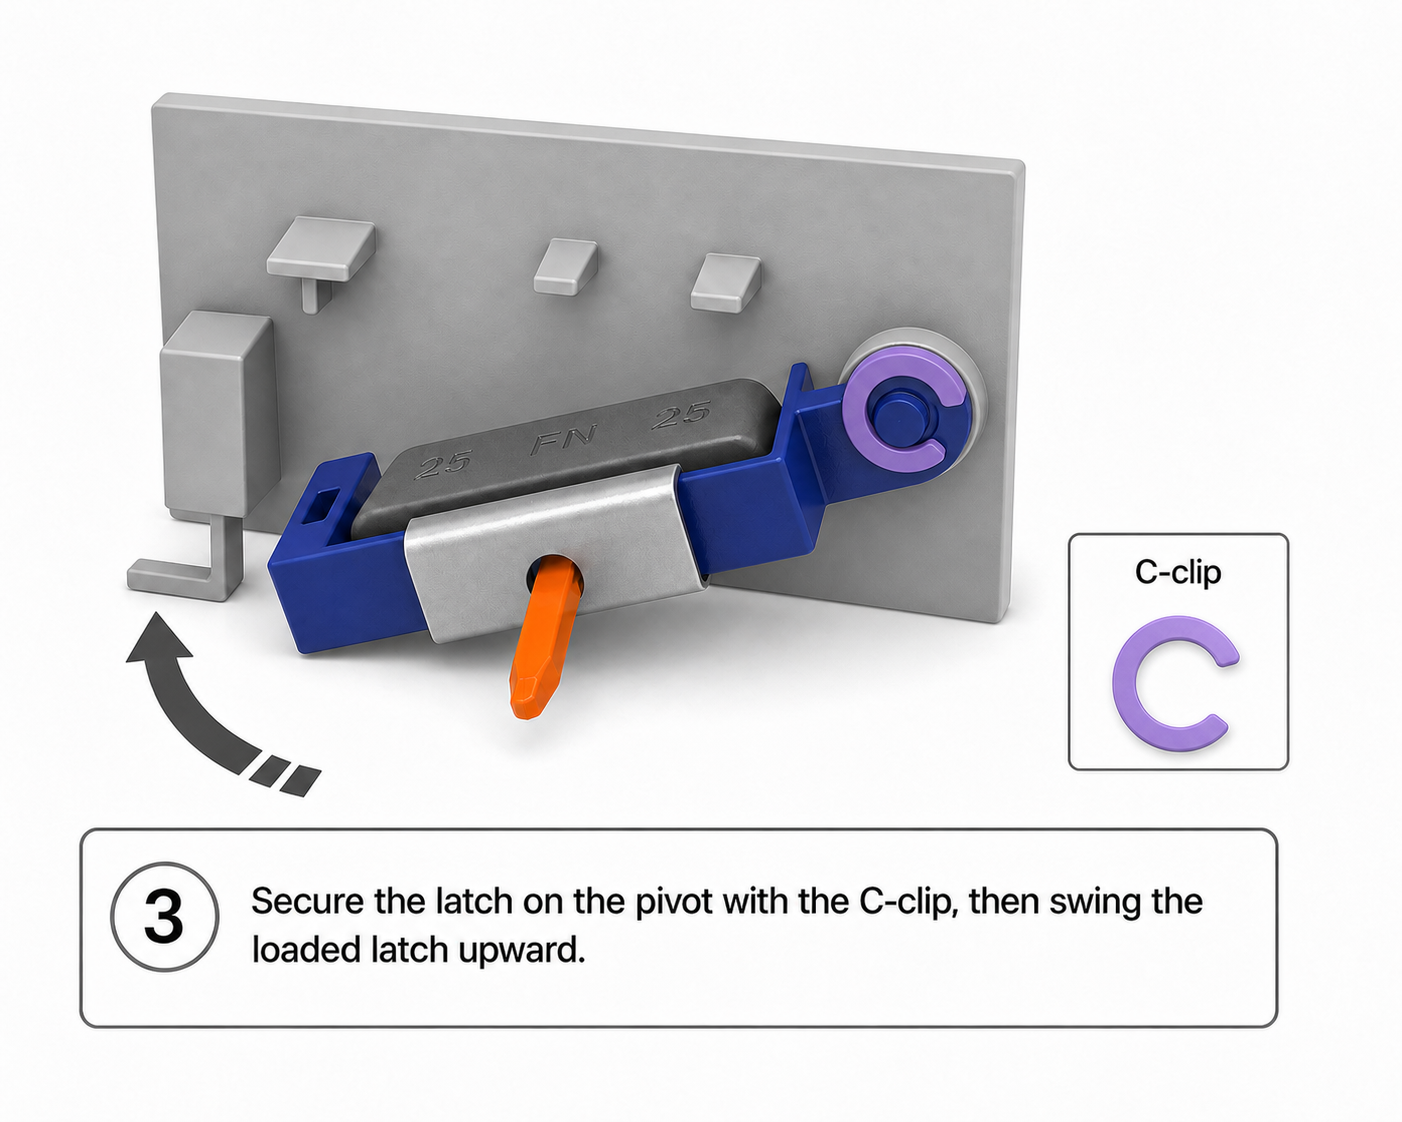
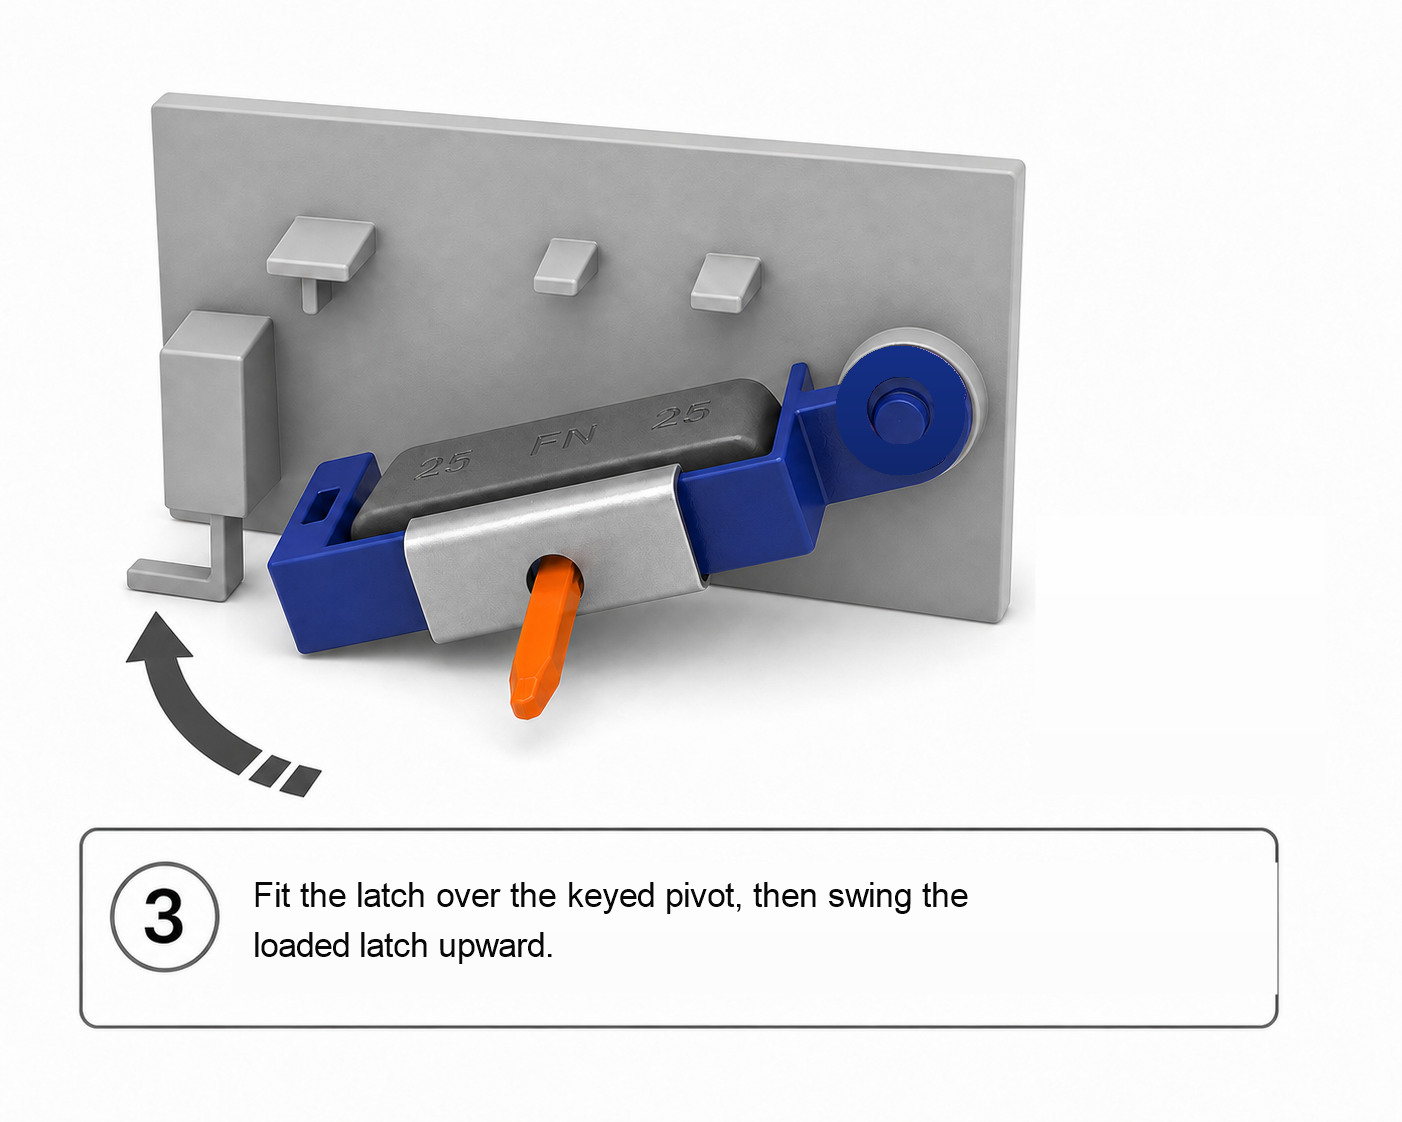
Remove C-clip from assembly guidance

Changed region(s): [[0.184, 0.7799, 0.8588, 0.8734], [0.7668, 0.4679, 0.9201, 0.6863], [0.5827, 0.3119, 0.7054, 0.4367]]

diff --git a/Preparation.html b/Preparation.html
@@ -47,7 +47,6 @@
     <section class="inventory-group"><h3>Trap Door / Release System</h3><div class="inventory-grid">
       <article class="inventory-card"><div class="inventory-image"><img src="https://cdn.jsdelivr.net/gh/dvzdan/frames-site@main/assets/setup-kit/dry-trap-door-rig.png" alt="Dry Trap Door Rig"></div><div class="inventory-name">Dry Trap Door Rig</div></article>
       <article class="inventory-card"><div class="inventory-image"><img src="https://cdn.jsdelivr.net/gh/dvzdan/frames-site@main/assets/setup-kit/weight-latch.png" alt="Weight Latch"></div><div class="inventory-name">Weight Latch</div></article>
-      <article class="inventory-card"><div class="inventory-image"><img src="https://cdn.jsdelivr.net/gh/dvzdan/frames-site@main/assets/setup-kit/latch-clip.png" alt="Latch Clip"></div><div class="inventory-name">Latch Clip</div></article>
     </div></section>
     <section class="inventory-group inventory-group-weight"><h3>Weight Rig</h3><div class="inventory-grid">
       <article class="inventory-card inventory-card-material"><div class="inventory-image"><img src="/assets/setup-kit/weight.png" alt="Weight"></div><div class="inventory-name">Weight</div></article>

diff --git a/Assembly.html b/Assembly.html
@@ -39,7 +39,6 @@
     <div class="assembly-preamble-block assembly-checklist-block">
       <h2>Easy-to-miss checks: <span class="term-help assembly-threading-help"><button class="term-help-trigger" type="button" aria-expanded="false" aria-controls="assembly-threading-help" data-term-help-trigger="true">String threading tip</button><span class="term-help-popover" id="assembly-threading-help" hidden role="tooltip">Tweezers are strongly recommended for guiding the string and image paper. For stubborn threading, stiffen the end with a tiny drop of superglue or use the supplied wire as a threading needle.</span></span></h2>
       <div class="assembly-checklist">
-        <label class="assembly-check-item"><input type="checkbox"><span>Fasten the trap-door latch with the C-clip.</span></label>
         <label class="assembly-check-item"><input type="checkbox"><span>Thread the string through both the boss guide and the top-left eyelet.</span></label>
         <label class="assembly-check-item"><input type="checkbox"><span>Pull any remaining slack above the string/clock guide.</span></label>
       </div>

diff --git a/AssemblyConfig.html b/AssemblyConfig.html
@@ -30,7 +30,6 @@ SITE_CONTENT.sections.assembly = {
   ],
   checklistHeading: "Easy-to-miss checks:",
   checklistItems: [
-    "Fasten the trap-door latch with the C-clip.",
     "Thread the string through both the boss guide and the top-left eyelet.",
     "Pull any remaining slack above the string/clock guide."
   ]

diff --git a/AssemblyData.html b/AssemblyData.html
@@ -1,5 +1,5 @@
 window.ASSEMBLY_MANIFEST = {
-  version: 4,
+  version: 5,
   imageBase: "https://cdn.jsdelivr.net/gh/dvzdan/frames-site@dace05b/assets/instruction%20images",
   reference: {
     title: "Final Setup",
